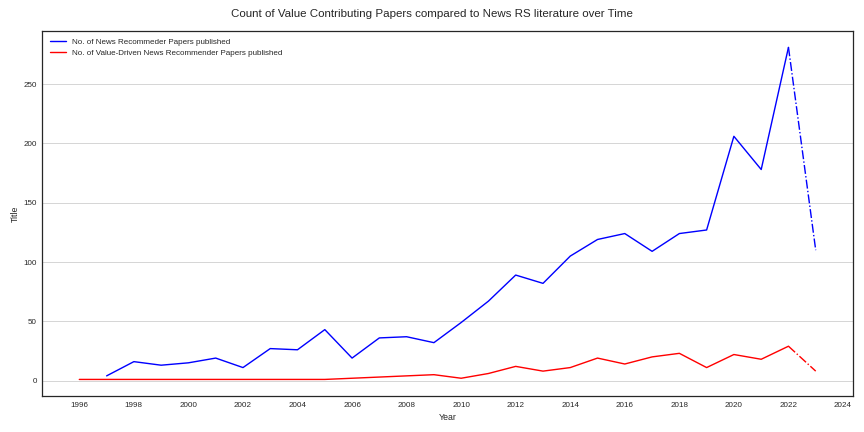
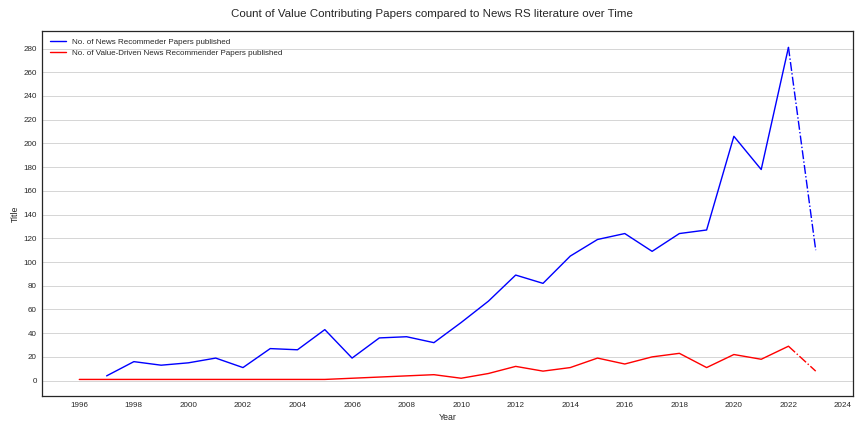
Probably removed all problematic files

diff --git a/preprocess_dpg_tracking.py b/preprocess_dpg_tracking.py
@@ -110,53 +110,82 @@ class ProgressPercentage(object):
 # decompressed
 # %%
 counter = collections.defaultdict(int)
-collector = collections.deque()
+view_collector = collections.deque()
+interaction_collector = collections.deque()
+geo_mapping = collections.defaultdict(str)
+city_mapping = collections.defaultdict(lambda: len(city_mapping)+1)
 limit = 100000
-update_freq = 500
+update_freq = 1000
 pbar = tqdm.tqdm(range(limit), total=limit)
 with gzip.GzipFile(fileobj=s3_client.get_object(Bucket=BUCKET_NAME, Key=FILE_NAME)["Body"]) as gzipfile:
     content = TextIOWrapper(gzipfile)
     for cnt, l in enumerate(content):
         
         tmp_dict = json.loads(l)
-        ev_name = tmp_dict.get('EVENT_NAME')
-        tmp_dict["QUASI_USER_ID"] = tmp_dict.get("ANDROID_ID") or tmp_dict.get("APPLE_ID") or tmp_dict.get("PRIVACYWALL_ID") or ""
-        tmp_dict["QUASI_USER_ID"] = tmp_dict.get("APP_ID", "no-app") + "-" + tmp_dict.get("QUASI_USER_ID", "") 
-        if "GEO_REGION" in tmp_dict:
-            del tmp_dict["GEO_REGION"]
-        if "GEO_REGION_NAME" in tmp_dict:
-            del tmp_dict["GEO_REGION_NAME"]
-        if "GEO_ZIPCODE" in tmp_dict:
-            del tmp_dict["GEO_ZIPCODE"]
-        # del tmp_dict["PLATFORM"]
-        # del tmp_dict["PRIVACYWALL_ID"]
-        # del tmp_dict["PRIVACY_SETTINGS"]
+        ev_name = tmp_dict.pop('EVENT_NAME', 'no-event')
+        tmp_dict["QUASI_USER_ID"] = tmp_dict.pop("ANDROID_ID", None) or tmp_dict.pop("APPLE_ID", None) or tmp_dict.pop("PRIVACYWALL_ID", None) or ""
+        tmp_dict["IS_LOGGED_IN"] = (tmp_dict.pop("GIGYA_ID", None) is not None)*1
+        geo_mapping[tmp_dict.pop("GEO_REGION", None)] = (tmp_dict.pop("GEO_REGION_NAME", None),tmp_dict.pop("GEO_TIMEZONE", None)) 
+        city_mapping[tmp_dict.get("GEO_CITY", None)]    
+        tmp_dict["GEO_CITY"] = city_mapping[tmp_dict.get("GEO_CITY", None)]
+        
+        if "DVCE_CREATED_TSTAMP" in tmp_dict:
+            del tmp_dict["DVCE_CREATED_TSTAMP"]
+        if "DOMAIN_USERID" in tmp_dict:
+            del tmp_dict["DOMAIN_USERID"]
+        if "DOMAIN_SESSIONID" in tmp_dict:
+            del tmp_dict["DOMAIN_SESSIONID"]
         if "REFR_URLHOST" in tmp_dict:
             del tmp_dict["REFR_URLHOST"]
+        if "PLATFORM" in tmp_dict:
+            del tmp_dict["PLATFORM"]
+        if "PAGE_TITLE" in tmp_dict:
+            del tmp_dict["PAGE_TITLE"]
+        if "PAGE_TYPE" in tmp_dict:
+            del tmp_dict["PAGE_TYPE"]
         if "PAGE_REFERRER" in tmp_dict:
             del tmp_dict["PAGE_REFERRER"]
         if "PAGE_URLHOST" in tmp_dict:
             del tmp_dict["PAGE_URLHOST"]
-        if "SE_VALUE" in tmp_dict:
-            del tmp_dict["SE_VALUE"]
-        if "SE_CATEGORY" in tmp_dict:
-            del tmp_dict["SE_CATEGORY"]
-        # Ask about SE ACTIONS
-        collector.append(tmp_dict)
+        if "PAGE_URLPATH" in tmp_dict:
+            del tmp_dict["PAGE_URLPATH"]
+        if "PRIVACY_SETTINGS" in tmp_dict:
+            psettings = tmp_dict["PRIVACY_SETTINGS"]
+            tmp_dict["privacy_functional"] = ("functional" in psettings)*1
+            tmp_dict["privacy_analytics"] = ("analytics" in psettings)*1
+            tmp_dict["privacy_target_advertising"] = ("target_advertising" in psettings)*1
+            tmp_dict["privacy_personalisation"] = ("personalisation" in psettings)*1
+            tmp_dict["privacy_non-personalised_ads"] = ("non-personalised_ads" in psettings)*1
+            tmp_dict["privacy_marketing"] = ("marketing" in psettings)*1
+            tmp_dict["privacy_social_media"] = ("social_media" in psettings)*1
+            tmp_dict["privacy_geo_location"] = ("geo_location" in psettings)*1
+            tmp_dict["privacy_advertising"] = ("advertising_" in psettings)*1
+            del tmp_dict["PRIVACY_SETTINGS"]
+        if ev_name in ["screen_view", "page_view"]:
+            if "SE_VALUE" in tmp_dict:
+                del tmp_dict["SE_VALUE"]
+            if "SE_CATEGORY" in tmp_dict:
+                del tmp_dict["SE_CATEGORY"]
+            if "SE_LABEL" in tmp_dict:
+                del tmp_dict["SE_LABEL"]
+            if "SE_ACTION" in tmp_dict:
+                del tmp_dict["SE_ACTION"]
+            view_collector.append(tmp_dict)
+        else:
+            interaction_collector.append(tmp_dict)            
         counter[ev_name] += 1
         if ((cnt+1)%update_freq) == 0:
             pbar.update(update_freq)
-            # pbar.flush()
-            # sys.stdout.flush()
         if cnt > limit:
             break
+
 pbar.close()        
 counter
 # %%
-df = pd.DataFrame(collector)
+df = pd.DataFrame(view_collector)
 df.head(5)
 # %%
-
+df.to_csv("data_dpg_testdata/example_reduction.csv")
 
 # %%
 for col in df.columns:

diff --git a/analyse_literature_review_results.py b/analyse_literature_review_results.py
@@ -389,7 +389,7 @@ ax.xaxis.set_major_formatter(matplotlib.dates.DateFormatter("%Y"))
 ax.grid(axis='y', )
 fig.suptitle("Sum of Value Contribution Proportions over Time")
 fig.tight_layout()
-plt.savefig('figs/lit_rev_count_proportions_over_time.png')
+plt.savefig('figs/lit_rev_count_proportions_over_time_by_value_group.png')
 plt.show()
 # %%
 # grouped_time_data = molten_data.groupby([C_YEAR, C_VALUE_GROUP]).sum().reset_index()
@@ -502,7 +502,11 @@ ax = sns.lineplot(
 # sns.lineplot(data=grouped_time_data.groupby(C_YEAR).mean(), x=C_YEAR, y=C_MENTIONS, label="Mean Value Contributions", color='Black', linestyle="-.")
 ax.xaxis.set_major_locator(matplotlib.dates.YearLocator(base=2))
 ax.xaxis.set_major_formatter(matplotlib.dates.DateFormatter("%Y"))
+
 ax.grid(axis='y')
+ax.set_yticks(np.arange(0, df_pre_screening[C_TITLE].max(), 20))
+# ax.set_yticks(np.arange(0, df_pre_screening[C_TITLE].max(), 5), minor=True)
+# ax.set_yticks(minor_ticks, minor=True)
 fig.suptitle("Count of Value Contributing Papers compared to News RS literature over Time")
 fig.tight_layout()
 plt.savefig('figs/lit_rev_count_nrs_over_time.png')
